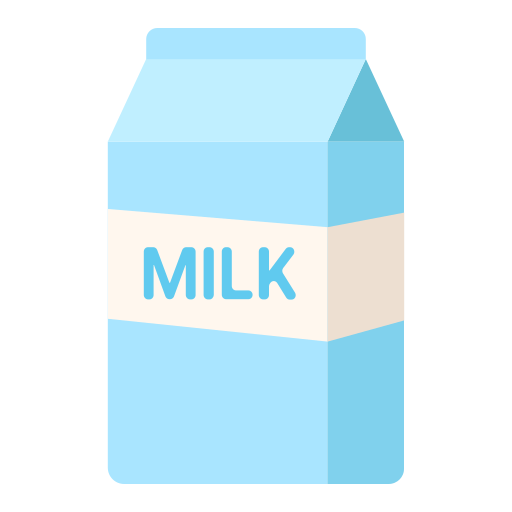
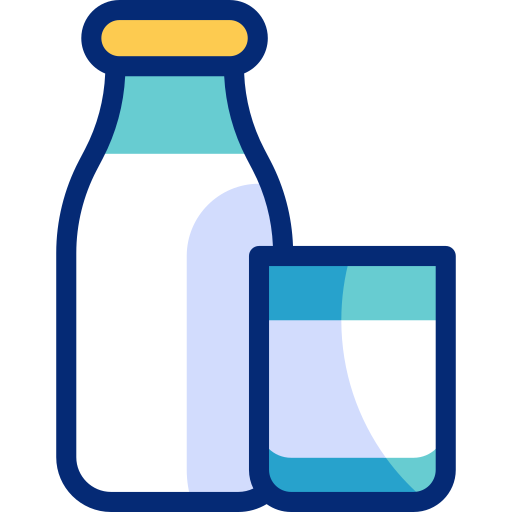
...

diff --git a/src/components/CYOM/MealCreationPage.jsx b/src/components/CYOM/MealCreationPage.jsx
@@ -677,13 +677,13 @@ const MealCreationPage = () => {
                             </div>
                         ) : (
                             // Step 3: Meal Selection
-                            <div className="space-y-6 animate-fade-in">
-                                <div className="text-center mb-6">
-                                    <h2 className="text-2xl font-black text-[#2E7D6B] mb-2">Select Your Meals</h2>
-                                    <p className="text-gray-500 text-sm">Which meals do you want to plan for?</p>
+                            <div className="space-y-4 animate-fade-in">
+                                <div className="text-center mb-4">
+                                    <h2 className="text-xl font-black text-[#2E7D6B] mb-1">Select Your Meals</h2>
+                                    <p className="text-gray-500 text-xs">Which meals do you want to plan for?</p>
                                 </div>
 
-                                <div className="grid grid-cols-1 gap-3">
+                                <div className="grid grid-cols-1 gap-2">
                                     {[
                                         { id: 'breakfast', label: 'Breakfast', icon: '🍳', time: '8:00 AM' },
                                         { id: 'morningSnack', label: 'Morning Snack', icon: '🍎', time: '11:00 AM' },
@@ -697,19 +697,19 @@ const MealCreationPage = () => {
                                                 ...prev,
                                                 selectedMeals: { ...prev.selectedMeals, [meal.id]: !prev.selectedMeals[meal.id] }
                                             }))}
-                                            className={`p-4 rounded-2xl border-2 transition-all cursor-pointer flex items-center justify-between ${formData.selectedMeals[meal.id] ? 'border-[#2E7D6B] bg-[#F0FDF9] shadow-md' : 'border-gray-100 bg-white hover:border-gray-200'}`}
+                                            className={`p-3 rounded-xl border transition-all cursor-pointer flex items-center justify-between ${formData.selectedMeals[meal.id] ? 'border-[#2E7D6B] bg-[#F0FDF9] shadow-sm' : 'border-gray-100 bg-white hover:border-gray-200'}`}
                                         >
-                                            <div className="flex items-center gap-4">
-                                                <div className={`w-10 h-10 rounded-full flex items-center justify-center text-lg ${formData.selectedMeals[meal.id] ? 'bg-[#2E7D6B] text-white' : 'bg-gray-100 text-gray-500'}`}>
+                                            <div className="flex items-center gap-3">
+                                                <div className={`w-8 h-8 rounded-full flex items-center justify-center text-base ${formData.selectedMeals[meal.id] ? 'bg-[#2E7D6B] text-white' : 'bg-gray-100 text-gray-500'}`}>
                                                     {meal.icon}
                                                 </div>
                                                 <div>
-                                                    <div className={`font-bold ${formData.selectedMeals[meal.id] ? 'text-[#2E7D6B]' : 'text-gray-700'}`}>{meal.label}</div>
+                                                    <div className={`font-bold text-sm ${formData.selectedMeals[meal.id] ? 'text-[#2E7D6B]' : 'text-gray-700'}`}>{meal.label}</div>
                                                 </div>
                                             </div>
-                                            <div className={`w-6 h-6 rounded-lg border-2 flex items-center justify-center transition-colors ${formData.selectedMeals[meal.id] ? 'bg-[#2E7D6B] border-[#2E7D6B]' : 'border-gray-300'}`}>
+                                            <div className={`w-5 h-5 rounded-md border flex items-center justify-center transition-colors ${formData.selectedMeals[meal.id] ? 'bg-[#2E7D6B] border-[#2E7D6B]' : 'border-gray-300'}`}>
                                                 {formData.selectedMeals[meal.id] && (
-                                                    <svg className="w-4 h-4 text-white" fill="none" stroke="currentColor" viewBox="0 0 24 24"><path strokeLinecap="round" strokeLinejoin="round" strokeWidth={3} d="M5 13l4 4L19 7" /></svg>
+                                                    <svg className="w-3.5 h-3.5 text-white" fill="none" stroke="currentColor" viewBox="0 0 24 24"><path strokeLinecap="round" strokeLinejoin="round" strokeWidth={3} d="M5 13l4 4L19 7" /></svg>
                                                 )}
                                             </div>
                                         </div>

diff --git a/src/components/CYOM/MealPlannerPage.jsx b/src/components/CYOM/MealPlannerPage.jsx
@@ -2,6 +2,9 @@ import React, { useState, useEffect, useRef } from 'react';
 import { useLocation, useNavigate } from 'react-router-dom';
 import { userData } from '../../data/store';
 import { foodDatabase } from '../../data/foodDatabase';
+import TeaTabIcon from '../../assets/tea_tab.png';
+import CoffeeTabIcon from '../../assets/coffee_tab.png';
+import MilkTabIcon from '../../assets/milk_tab.png';
 import jsPDF from 'jspdf';
 import autoTable from 'jspdf-autotable';
 import * as XLSX from 'xlsx';
@@ -1301,7 +1304,11 @@ const MealPlannerPage = () => {
                                                 <tr key={`bev-${bev.id}`} className="border-b border-gray-100 bg-orange-50/10 hover:bg-orange-50/20 transition-colors">
                                                     <td className="p-2 sm:p-3 pl-3 sm:pl-4 sticky left-0 bg-white group-hover:bg-gray-50 z-10 border-r border-gray-100 shadow-[2px_0_5px_-2px_rgba(0,0,0,0.05)]">
                                                         <div className="flex items-center gap-3">
-                                                            <div className="w-6 h-6 sm:w-8 sm:h-8 bg-orange-100 rounded-lg flex items-center justify-center text-xs sm:text-sm shrink-0">🥤</div>
+                                                            <div className="w-6 h-6 sm:w-8 sm:h-8 bg-orange-100 rounded-lg flex items-center justify-center text-xs sm:text-sm shrink-0 overflow-hidden p-1">
+                                                                {bev.name === 'Tea' ? <img src={TeaTabIcon} alt="Tea" className="w-full h-full object-contain" /> :
+                                                                    bev.name === 'Coffee' ? <img src={CoffeeTabIcon} alt="Coffee" className="w-full h-full object-contain" /> :
+                                                                        <img src={MilkTabIcon} alt="Milk" className="w-full h-full object-contain" />}
+                                                            </div>
                                                             <div>
                                                                 <div className="font-bold text-gray-800 text-[10px] sm:text-xs leading-tight">
                                                                     {bev.name} {bev.withSugar && <span className="text-orange-500 font-black ml-1">w/ {s.sugarTabs} tbsp sugar</span>}
